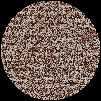
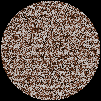
Removed black line and fixed error in rgb scaling

diff --git a/src/me/jessicaalohse/raytracer/utilities/RGB.java b/src/me/jessicaalohse/raytracer/utilities/RGB.java
@@ -45,20 +45,19 @@ public class RGB {
 	}
 
 	public RGB multiplyByScalar(float scale) {
-		RGB newColor;
-		if (scale < 1) {
-			int red = (int) (this.red * scale);
-			int green = (int) (this.green * scale);
-			int blue = (int) (this.blue * scale);
-			newColor = new RGB(red, green, blue);
-		} else {
-			int red = (int) ((this.red * scale) / 255);
-			int green = (int) ((this.green * scale) / 255);
-			int blue = (int) ((this.blue * scale) / 255);
-			newColor = new RGB(red, green, blue);
-		}
+		RGB newColor = new RGB(determineScaled(this.red, scale), determineScaled(this.green, scale),
+				determineScaled(this.blue, scale));
 		newColor.clamp();
 		return newColor;
+	}
+
+	private int determineScaled(int color, float scale) {
+		int scaled = (int) (color * scale);
+		if (scaled <= color) {
+			return scaled;
+		} else {
+			return scaled / 255;
+		}
 	}
 
 	public RGB add(RGB b) {

diff --git a/src/me/jessicaalohse/raytracer/textures/ImageTexture.java b/src/me/jessicaalohse/raytracer/textures/ImageTexture.java
@@ -61,10 +61,11 @@ public class ImageTexture implements Texture {
 		float tu = u - iu;
 		float tv = v - iv;
 		RGB[][] pixels = image.image;
-		RGB c = pixels[iu][iv].multiplyByScalar(1 - tu).multiplyByScalar(1 - tv)
-				.add(pixels[iu + 1][iv].multiplyByScalar(tu).multiplyByScalar(1 - tv))
-				.add(pixels[iu][iv + 1].multiplyByScalar(1 - tu).multiplyByScalar(tv))
-				.add(pixels[iu + 1][iv + 1].multiplyByScalar(tu).multiplyByScalar(tv));
+		RGB c1 = pixels[iu][iv].multiplyByScalar(1 - tu).multiplyByScalar(1 - tv);
+		RGB c2 = pixels[iu + 1][iv].multiplyByScalar(tu).multiplyByScalar(1 - tv);
+		RGB c3 = pixels[iu][iv + 1].multiplyByScalar(1 - tu).multiplyByScalar(tv);
+		RGB c4 = pixels[iu + 1][iv + 1].multiplyByScalar(tu).multiplyByScalar(tv);
+		RGB c = c1.add(c2).add(c3).add(c4);
 		return c;
 	}
 

diff --git a/src/me/jessicaalohse/raytracer/images/GlobeImage.java b/src/me/jessicaalohse/raytracer/images/GlobeImage.java
@@ -12,6 +12,7 @@ public class GlobeImage {
 	int rowsColumns = 1001;
 	
 	public GlobeImage() {
+		long start = System.currentTimeMillis();
 		Image image = new Image(rowsColumns, rowsColumns);
 		Sphere sphere = new Sphere(500, 500, -1500, 500f, new RGB(215, 215, 215),
 				0);
@@ -21,6 +22,7 @@ public class GlobeImage {
 		try {
 			image.printImage("GlobeImage");
 			System.out.println("Created GlobeImage.png");
+			System.out.printf("Printing took %d milliseconds.", System.currentTimeMillis() - start);
 		} catch (IOException e) {
 			e.printStackTrace();
 		}
